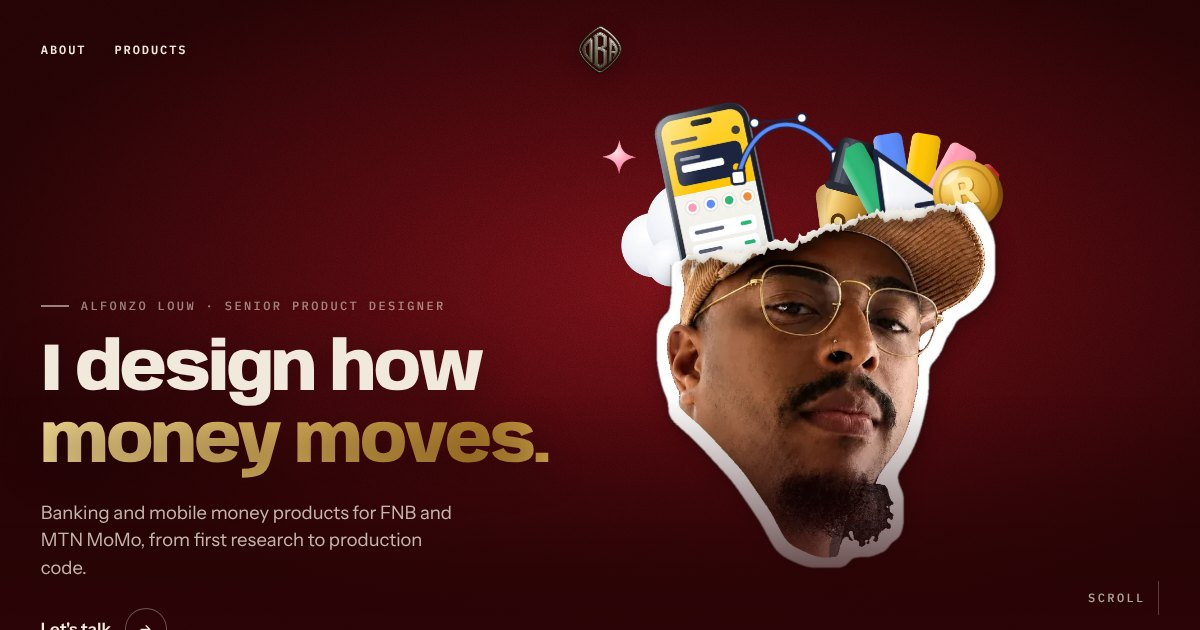
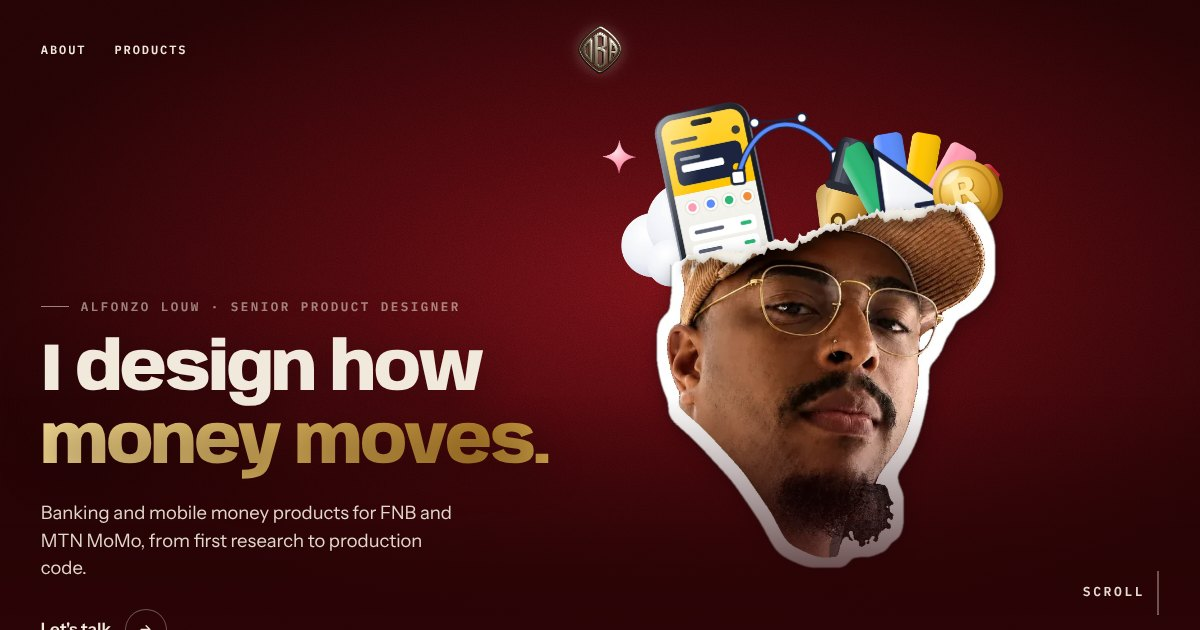
Polish the header and hero (#3)
Header links sit on the same grid as the page content, the logo gets a
soft highlight on dark backgrounds, View case studies is a quieter
outline so Let's talk stays the main action, and the eyebrow, intro
line and scroll cue have more contrast.

Claude-Session: https://claude.ai/code/session_01RGXm2qui5F1c798xJE6Kaf

diff --git a/site/index.html b/site/index.html
@@ -1168,8 +1168,8 @@ button.ccopy { border: 0; cursor: pointer; font: inherit; }
   .closer .pic { height: 64vw; max-height: 380px; }
 }
 @media (hover: none), (pointer: coarse) { a.tn-obj { pointer-events: none; } }
-.hz-scroll { position: absolute; z-index: 3; right: var(--gutter-r); bottom: clamp(24px, 4vh, 40px); display: flex; align-items: center; gap: 12px; font-family: var(--mono); font-size: 12px; font-weight: 500; letter-spacing: .2em; text-transform: uppercase; color: rgba(241,233,220,.7); opacity: var(--hz-o, 1); pointer-events: none; }
-.hz-scroll i { position: relative; width: 1.5px; height: 34px; background: rgba(241,233,220,.25); overflow: hidden; }
+.hz-scroll { position: absolute; z-index: 3; right: var(--gutter-r); bottom: clamp(24px, 4vh, 40px); display: flex; align-items: center; gap: 12px; font-family: var(--mono); font-size: 13px; font-weight: 600; letter-spacing: .2em; text-transform: uppercase; color: rgba(241,233,220,.95); opacity: var(--hz-o, 1); pointer-events: none; }
+.hz-scroll i { position: relative; width: 2px; height: 44px; background: rgba(241,233,220,.35); overflow: hidden; }
 .hz-scroll i::after { content: ""; position: absolute; left: 0; right: 0; top: 0; height: 40%; background: #D9B25C; animation: hzScroll 1.8s var(--ease) infinite; }
 @keyframes hzScroll { from { transform: translateY(-100%); } to { transform: translateY(250%); } }
 @media (max-width: 700px) { .hz-scroll { display: none; } }
@@ -1215,9 +1215,9 @@ html:not(.js-in) .tn-topp { display: none; }
   font-family: var(--head, var(--display)); font-weight: 800; font-variation-settings: "wdth" 100; font-size: clamp(50px, 5.6vw, 100px); line-height: .9; letter-spacing: -.038em; color: #F1E9DC; text-wrap: initial; white-space: normal; }
 .hero .hz-copy .hz-h em { display: block; white-space: nowrap; font-style: normal; padding-bottom: .06em; color: #D9B25C;
   background: linear-gradient(100deg, #F7DE95 0%, #D9B25C 38%, #B8862E 72%, #E9C56C 100%); -webkit-background-clip: text; background-clip: text; -webkit-text-fill-color: transparent; }
-.hz-eb { display: flex; align-items: center; gap: 12px; margin-bottom: clamp(18px, 2.6vh, 28px); font-family: var(--mono); font-size: 12px; font-weight: 500; letter-spacing: .2em; text-transform: uppercase; color: #D9B25C; }
+.hz-eb { display: flex; align-items: center; gap: 12px; margin-bottom: clamp(18px, 2.6vh, 28px); font-family: var(--mono); font-size: 12.5px; font-weight: 600; letter-spacing: .2em; text-transform: uppercase; color: #F0D58E; }
 .hz-eb::before { content: ""; width: 28px; height: 1.5px; background: currentColor; }
-.hz-lede { margin-top: clamp(20px, 3vh, 30px); max-width: 34ch; font-size: clamp(16px, .45vw + 13px, 20px); line-height: 1.5; color: rgba(241,233,220,.78); }
+.hz-lede { margin-top: clamp(20px, 3vh, 30px); max-width: 34ch; font-size: clamp(16px, .45vw + 13px, 20px); line-height: 1.5; color: rgba(241,233,220,.92); }
 .hz-acts { display: flex; flex-wrap: wrap; align-items: center; gap: 14px 28px; margin-top: clamp(26px, 4vh, 40px); }
 .hz-acts .link { color: #F1E9DC; font-weight: 600; } .hz-acts .link .c { box-shadow: inset 0 0 0 1px rgba(241,233,220,.35); }
 @media (max-width: 700px) {
@@ -1228,13 +1228,19 @@ html:not(.js-in) .tn-topp { display: none; }
   .hz-lede { font-size: 15px; margin-top: 14px; } .hz-acts { margin-top: 18px; gap: 10px 20px; } .hz-acts .btn { min-height: 48px; padding: 0 20px; }
 }
 /* header: View case studies (outline) beside Let's talk (gold) */
-.hcases { display: inline-flex; align-items: center; justify-content: center; min-height: 44px; padding: 0 18px; margin-right: 8px; text-decoration: none; color: var(--bone); font-family: var(--mono); font-size: 11.5px; font-weight: 700; letter-spacing: .16em; text-transform: uppercase; box-shadow: inset 0 0 0 1.5px currentColor; clip-path: polygon(0 0, calc(100% - 10px) 0, 100% 10px, 100% 100%, 10px 100%, 0 calc(100% - 10px)); transition: background .3s, color .3s; }
+.hcases { display: inline-flex; align-items: center; justify-content: center; min-height: 44px; padding: 0 18px; margin-right: 8px; text-decoration: none; color: var(--bone); font-family: var(--mono); font-size: 11.5px; font-weight: 600; letter-spacing: .16em; text-transform: uppercase; box-shadow: inset 0 0 0 1px var(--line-2); clip-path: polygon(0 0, calc(100% - 10px) 0, 100% 10px, 100% 100%, 10px 100%, 0 calc(100% - 10px)); transition: background .3s, color .3s; }
 .hcases:hover { background: #D9B25C; color: #140B0D; box-shadow: none; }
-.over-hero .hcases { color: #F1E9DC; }
+.over-hero .hcases { color: rgba(241,233,220,.86); box-shadow: inset 0 0 0 1px rgba(241,233,220,.3); }
 .hcases .lbs { display: none; }
 @media (max-width: 700px) { .hcases { padding: 0 12px; font-size: 10.5px; letter-spacing: .12em; margin-right: 4px; } .hcases .lbl { display: none; } .hcases .lbs { display: inline; } }
 @media (min-width: 701px) and (max-width: 1100px) { .hz-frame .tn-head { --hw: min(38vw, 54svh); left: 77%; } .hz-copy { width: 50vw; } .hero .hz-copy .hz-h { font-size: clamp(40px, 5.2vw, 60px); } .hz-lede { max-width: 28ch; } }
 @media (max-width: 700px) and (max-height: 760px) { .hz-frame .tn-head { --hw: min(70vw, 40svh); top: 100px; } .hz-lede { display: none; } }
+/* header on the content grid; logo lifted off dark backgrounds */
+.top .tl a:first-child { padding-left: 0; }
+@media (min-width: 701px) { .top.pill { width: calc(min(100vw, 1440px) - var(--gutter-l) - var(--gutter-r) + 44px); padding-left: 22px; padding-right: 22px; } }
+.top .logo { position: relative; }
+.over-hero .top .logo::before { content: ""; position: absolute; inset: -2px; border-radius: 50%; background: radial-gradient(closest-side, rgba(241,233,220,.26), rgba(241,233,220,.08) 60%, transparent); pointer-events: none; }
+.over-hero .top .logo img { filter: brightness(1.22) contrast(1.08) drop-shadow(0 0 10px rgba(241,233,220,.22)); }
 /* DDbyAlfonzo logo + cursor */
 .top .logo img { width: 44px; height: auto; filter: drop-shadow(0 4px 10px rgba(0,0,0,.35)); transition: transform .6s var(--spring); }
 .top .logo:hover img { transform: scale(1.08) rotate(-6deg); }
